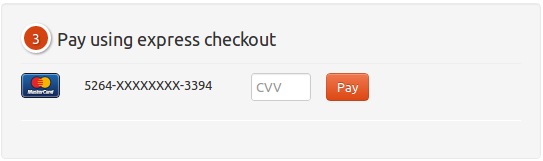
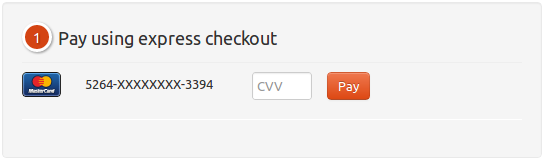
Adding the post and updating the express-checkout-form image

diff --git a/_posts/2012-10-01-express-checkout-as-a-service.md b/_posts/2012-10-01-express-checkout-as-a-service.md
@@ -1,0 +1,91 @@
+---
+layout: post
+title: "Express Checkout as a Service"
+description: "Express Checkout as a service"
+category: 
+tags: [express checkout, online payments, e-commerce]
+---
+{% include JB/setup %}
+
+![Express Checkout](/assets/images/chn_rail_crh2.jpg)
+
+This is the picture of [CRH2](http://en.wikipedia.org/wiki/China_Railways_CRH2 "CRH2") high speed train in China. The maximum speed of this train is a whopping 350 km/h. Such high speed trains are not just technology marvel. These are symbols of efficiency. 
+
+Every country puts a lot of effort to ensure that her citizens are literate and healthy. When people are healthy and smart, they are more productive and efficient. This in turn, makes a country prosperous. 
+
+Just like a country, every ecosystem focuses on ensuring that its sub-systems are efficient. A great country needs a great economy. A great economy needs an efficient financial system. This brings us to the payments infrastructure issue. Just like good roads are required for efficient travel, a great payments infrastructure is required for efficient functioning of online economy. 
+  
+#### Express Checkout
+
+![Express Checkout Form](/assets/images/express-checkout-form.png)
+  
+This is our first step to help increase the efficiency of online payment systems. In a typical online payments scenario, there are 7 steps involved before the checkout process is completed. Express Checkout reduces this to __2 simple steps__. From our analysis, we have also observed that express checkout takes __less than 15 seconds__ to complete a payment. 
+
+HTTP Redirection based workflow will inevitably lead to dead ends at times. On the contrary, Express Checkout retains the customer on the checkout page until the completion of payment. The complicated redirection is offloaded to a separate window.This reduces the frustration level for the customer, should the payment operation fail, for whatever reasons technical or non-technical. The net effect is that satisfaction levels of customers increase. 
+
+A typical merchant faces about [65% of shopping cart abandonment](http://www.invesp.com/blog/cro/shopping-cart-abandonment-rate-statistics-infographic.html "65% of shopping cart abandonment"). Express Checkout helps improve the situation. An approximate estimate on how much a business can benefit from this solution can be found [here](https://merchant.juspay.in/gain/ "Shopping Cart Improvement").
+
+
+#### How it works
+
+Juspay will store credit card (or debit card) information of buyers on behalf of partner merchants. Card information is stored only after the customer provides his/her consent. Note that we are PCI Level 1 Compliant and are fully authorized to store card information. 
+
+![Inline Checkout Form](/assets/images/inline-checkout-form.png)
+
+The first time checkout will be a regular one, as shown above. During the subsequent purchase, the merchant can obtain the tokenized card information of customer from Juspay through our simple APIs. Only CVV number is required from the customer at this point. Customer enters this 3 digit code and proceeds to 3D Secure step and subsequently completes payment. 
+
+The payment instruction is sent to bank from Juspay's secure infrastructure, but on behalf of the merchant. Thus, the money doesn't flow through Juspay but rather is routed directly to the merchant's account.
+
+#### Simple APIs
+
+Our foundation APIs are completely HTTP based. We have consciously designed the APIs to be very minimalistic. These APIs accept regular HTTP payload (form-url-encoded) and talk back in JSON.
+
+<pre class="prettyprint linenums lang-html">
+
+# Create an order
+
+curl https://api.juspay.in/init_order \
+    -u 880E8EC5B9CA4450BD37ABB6E3CB2FED: \
+    -d "amount=400.00" \
+    -d "order_id=testuser3_ord_110011" \
+    -d "customer_id=testuser3_user_101" \
+    -d "customer_email=customer@mail.com" \
+    
+# List cards pertaining to a customer
+
+curl https://api.juspay.in/card/list \
+    -u 880E8EC5B9CA4450BD37ABB6E3CB2FED: \
+    -d "customer_id=sindbad" \
+
+</pre>
+
+Merchants are free to design the credit card form in whichever manner they prefer. Our integration script is as small as that of Google Analytics! 
+
+<pre class="prettyprint linenums lang-html">&lt;script type="text/javascript" 
+    src="https://api.juspay.in/pay.js"&gt;&lt;/script&gt;
+
+// The payment form goes here.
+&lt;script type="text/javascript"&gt;
+    Juspay.Setup({
+        payment_form: "#payment_form",
+        success_handler: function(status) {},
+        error_handler: function(error_code, error_message, bank_error_code, bank_error_message, gateway_id) {}
+    })
+&lt;/script&gt;
+</pre>
+
+These are few examples. Our entire system is developed keeping simplicity as the foremost principle. From our past experience we have seen that simple things always have the capability to scale very nicely. Although we presently do not operate at a very large scale, we have tested the capabilities of our systems to scale without sacrificing throughput. 
+
+#### Inspiration
+
+A great amount of our design and philosophy is inspired from Amazon, Cleartrip, Square, Stripe and Flipkart. We are proud to stand on the shoulders of these giants. Our mission is to simplify online payments in India. We sincerely hope and believe that we would be able to help the ecosystem move forward. 
+
+#### Who can use it
+
+Express Checkout can only work in a trusted environment. So we recommend this solution only for merchants who have brand recognition and enjoy a certain level of customer trust. Merchants serving niche categories with significant number of repeat customers can also benefit from this solution.
+
+Upcoming merchants are encouraged to try our [Inline Checkout](https://merchant.juspay.in/merchant/inline-checkout-demo "Inline Checkout") solution. This product has all the benefits but for card storage. 
+
+**Important**: Our solution works on top of merchant's bank credentials. For now, Juspay will remain a solution provider. 
+
+For any queries, reach out to us by shooting a mail to [info@juspay.in](mailto:info@juspay.in). Please also follow us at [@juspay](http://twitter.com/juspay) for interesting updates. 
